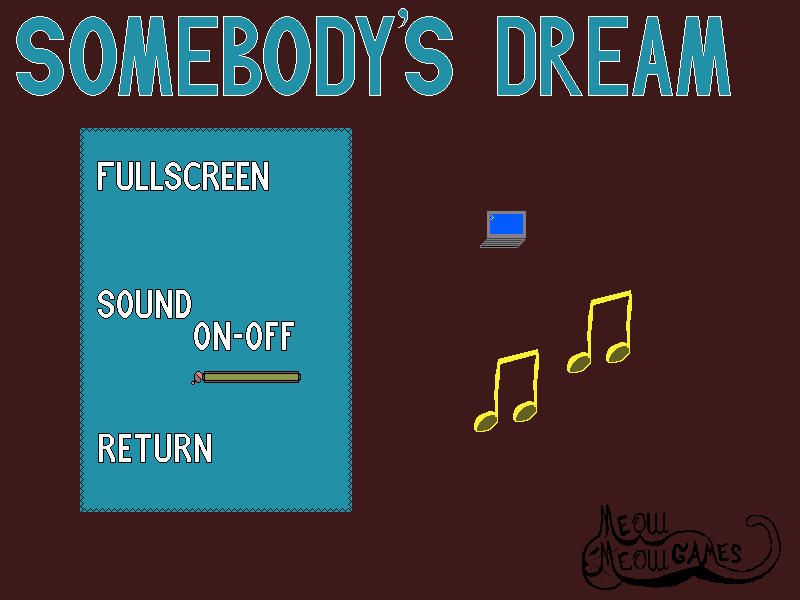
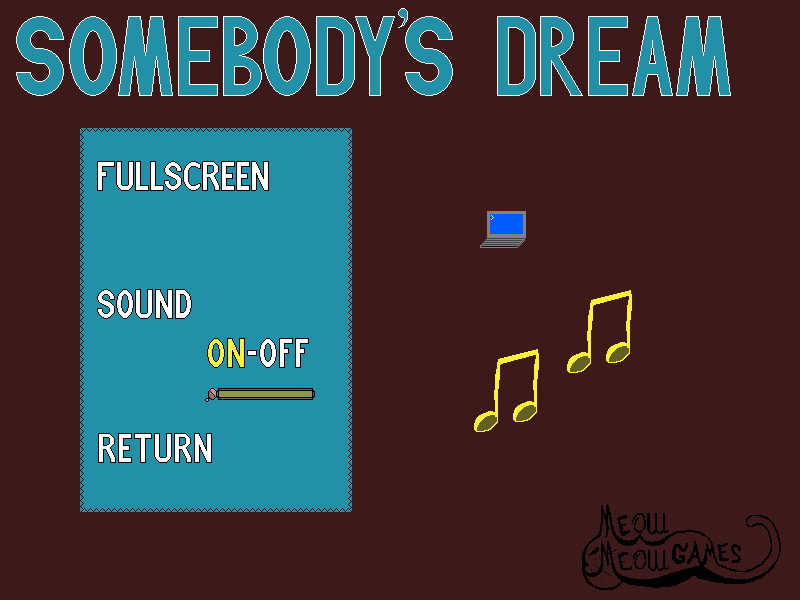
menu working, toggle sound (well the flag at least haha)

Changed region(s): [[0.2188, 0.51, 0.4062, 0.69]]

diff --git a/common/systems/menu_system.py b/common/systems/menu_system.py
@@ -28,12 +28,8 @@ class MenuSystem(System):
     def set_menu(self, event):
         self.logger.loggers['menu_system'].info(f'Set menu: {event.type} {event.data}!')
 
-        if self.current_menu:
-            self.entity_manager.entities_to_render.remove(self.current_menu)
-            self.entity_manager.menu_entities.remove(self.current_menu)
-        if self.current_selector:
-            self.entity_manager.entities_to_render.remove(self.current_selector)
-            self.entity_manager.menu_entities.remove(self.current_selector)
+        self.entity_manager.entities_to_render.clear()
+        self.entity_manager.menu_entities.clear()
 
         self.current_menu = self.entity_manager.get_entity_by_name(event.data[0])
         self.current_selector = self.entity_manager.get_entity_by_name(event.data[1])
@@ -55,7 +51,7 @@ class MenuSystem(System):
                 position_component.position = selector_component.options[selector_component.current_selection]['position']
 
 
-    def handle_menu_event(self, event, troubleshooting=False):
+    def handle_menu_event(self, event):
         self.logger.loggers['menu_system'].info(f"Event received in menu system - Type '{event.type}', Data '{event.data}'")
 
         if (event.type == "down") and event.data[0] == "key_down":

diff --git a/common/game_manager.py b/common/game_manager.py
@@ -37,7 +37,6 @@ class GameManager:
         self.world.entity_manager.entities_to_render.remove(options_selector)
         self.world.entity_manager.menu_entities.remove(options_selector)
 
-
         self.world.event_manager.subscribe("escape", self.quit_game)
         self.world.event_manager.subscribe("change_state", self.change_state)
 
@@ -72,10 +71,17 @@ class GameManager:
             self.quit_game(event)
 
         elif event.data == "options":
-            self.world.event_manager.post(Event("set_menu", ("options_menu_background", "options_menu_selector")))
+            if self.world.game_state.sound_on:
+                self.world.event_manager.post(Event("set_menu", ("options_menu_background", "options_menu_selector")))
+            else:
+                self.world.event_manager.post(Event("set_menu", ("options_menu_background_no_sound", "options_menu_selector")))
 
         elif event.data == "main_menu":
             self.world.event_manager.post(Event("set_menu", ("main_menu_background", "main_menu_selector")))
+
+        elif event.data == "sound":
+            self.world.game_state.sound_on = not self.world.game_state.sound_on
+            self.world.event_manager.post(Event("change_state", "options"))
 
 
     def quit_game(self, event):

diff --git a/common/systems/render_system.py b/common/systems/render_system.py
@@ -18,7 +18,9 @@ class RenderSystem(System):
         self.screen.fill((0, 0, 0))
 
         # Render all entities with images
-        for entity in self.entity_manager.entities_to_render.intersection(self.entity_manager.entities_with_image):
+        entities_to_blit = []
+        for entity in sorted(self.entity_manager.entities_to_render.intersection(self.entity_manager.entities_with_image), 
+                             key=lambda entity: self.entity_manager.get_component(entity, RenderComponent).layer):
 
             image_component = self.entity_manager.get_component(entity, ImagesComponent)
             images = image_component.images
@@ -27,8 +29,10 @@ class RenderSystem(System):
 
             position = self.entity_manager.get_component(entity, PositionComponent).position
 
-            self.screen.blit(image_to_blit, position)
+            entities_to_blit.append((image_to_blit, position))
+
+        for image, position in entities_to_blit:
+            self.screen.blit(image, position)
 
         pygame.display.flip()
-
         

diff --git a/common/game_state.py b/common/game_state.py
@@ -9,6 +9,9 @@ class GameState:
         self.clock = None
         self.start_time = None
 
+        self.sound_on = False
+        self.volume = 1.0
+
         self.caption = "ECS SD Build 0.0.4.1"
         self.icon_path = "images/icons/main_icon.png"
 
